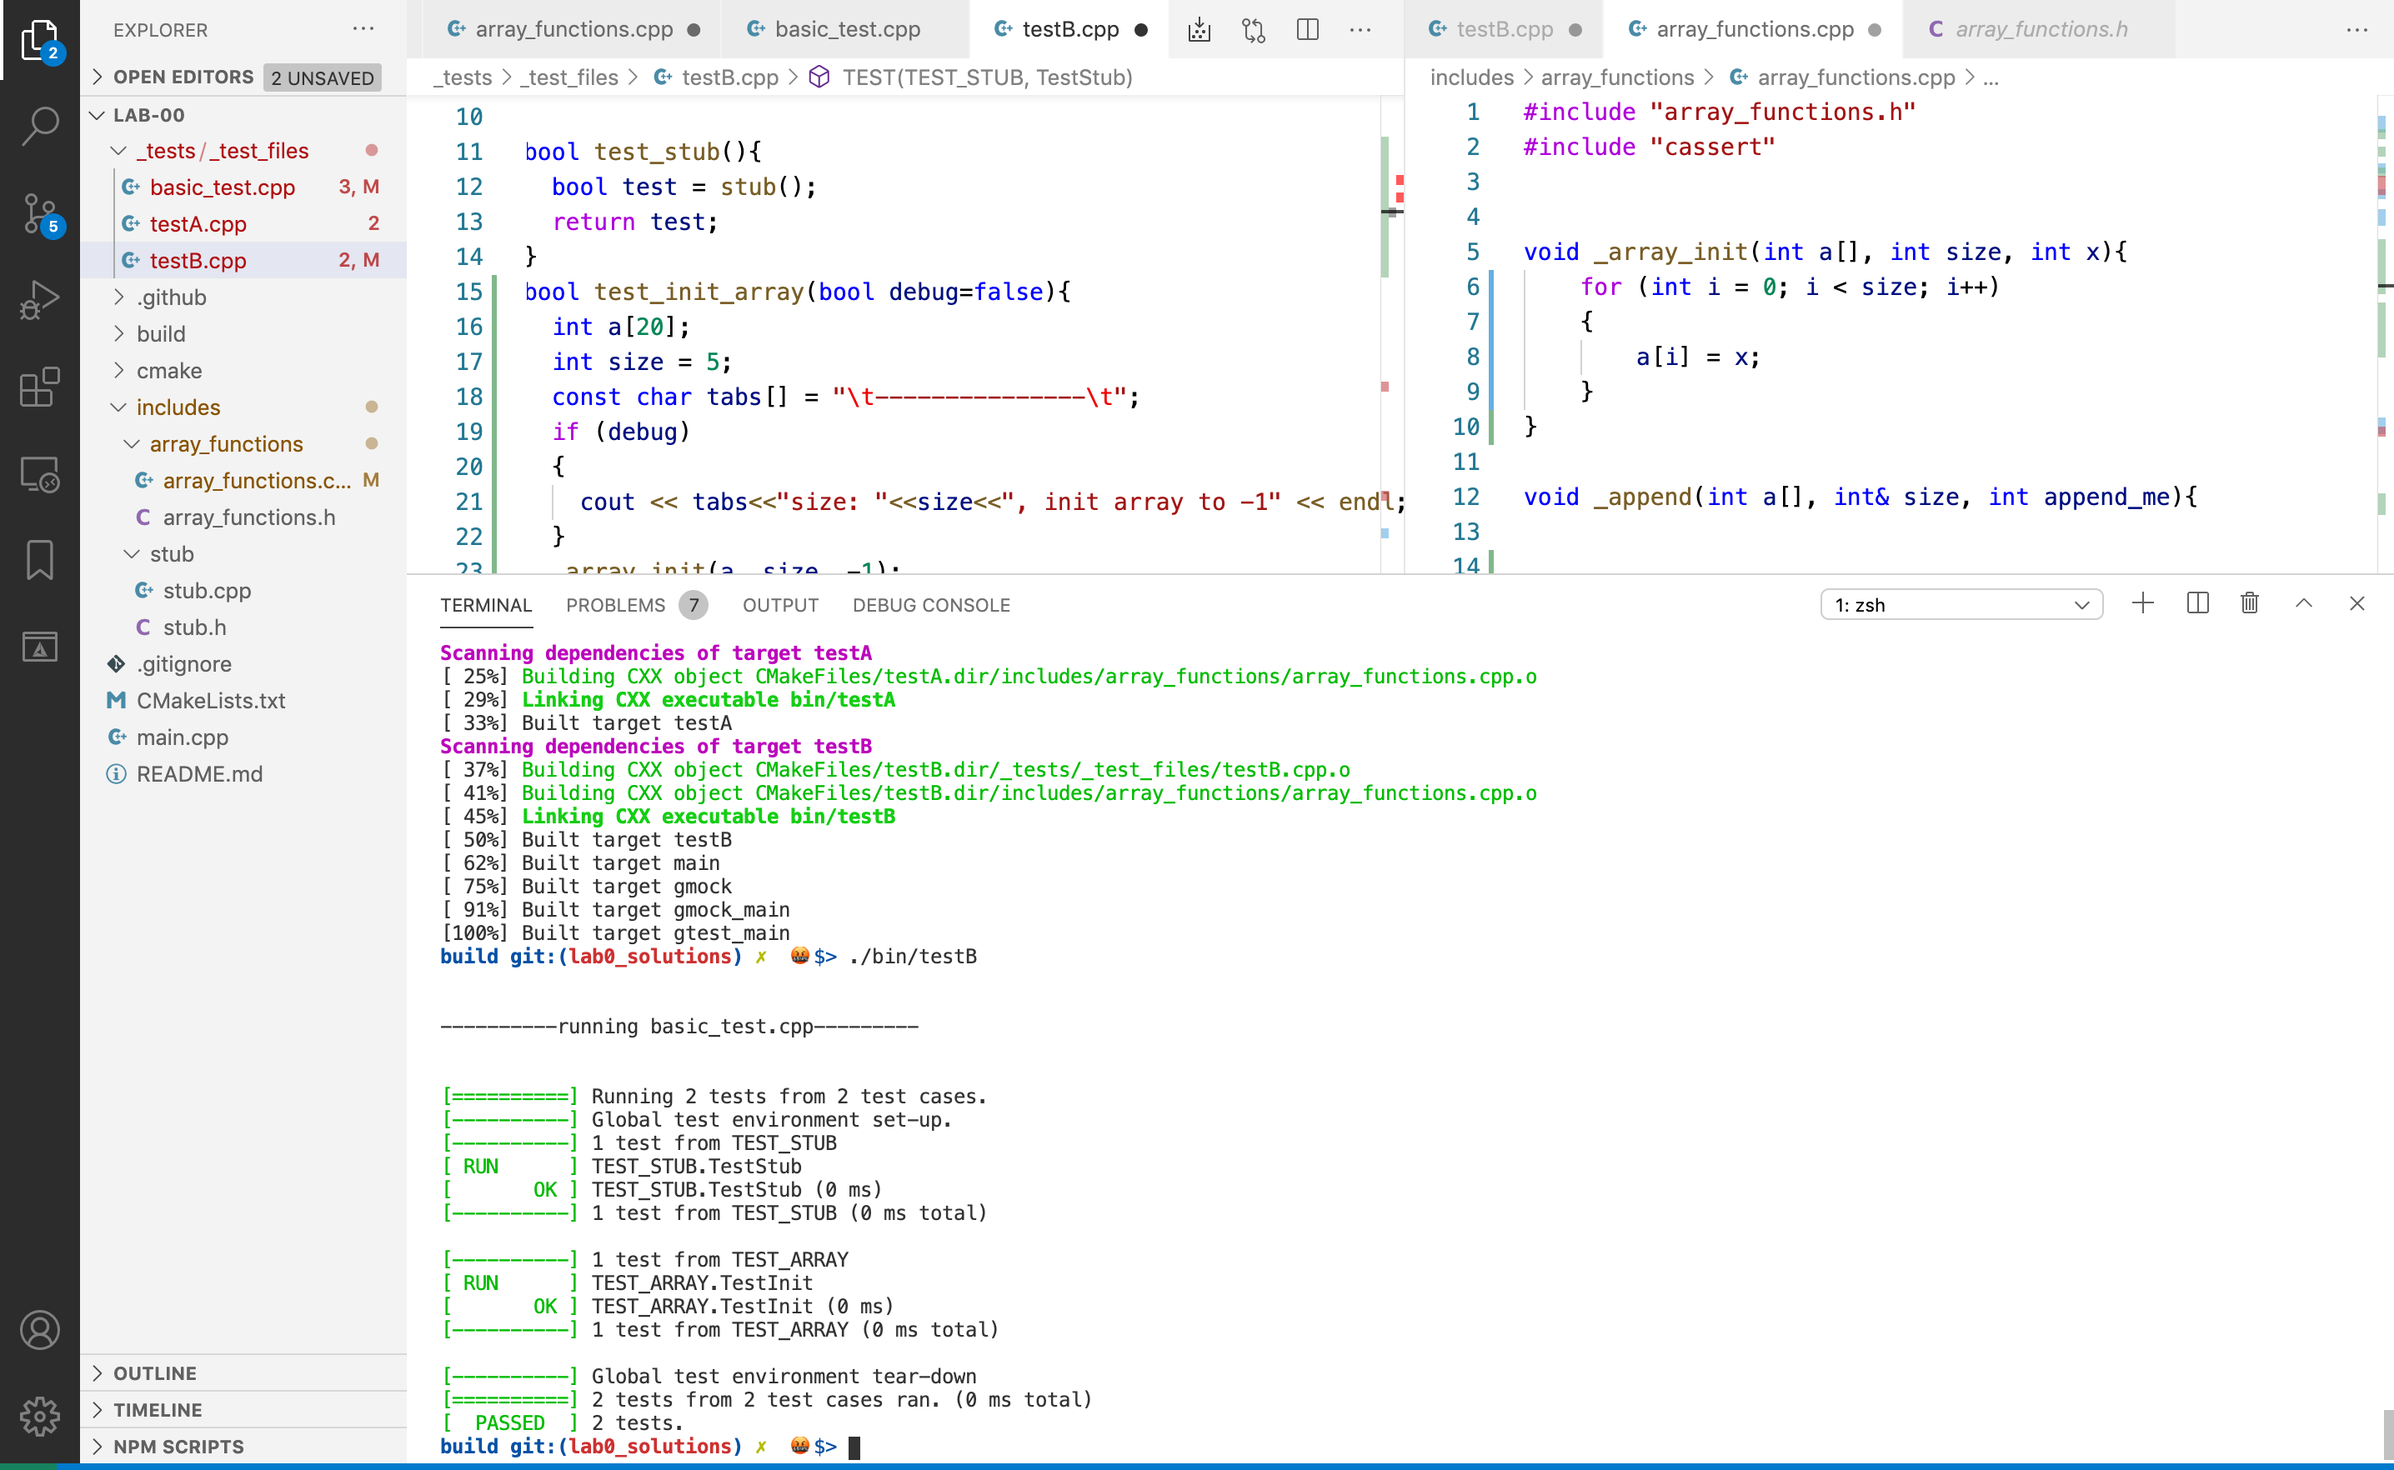
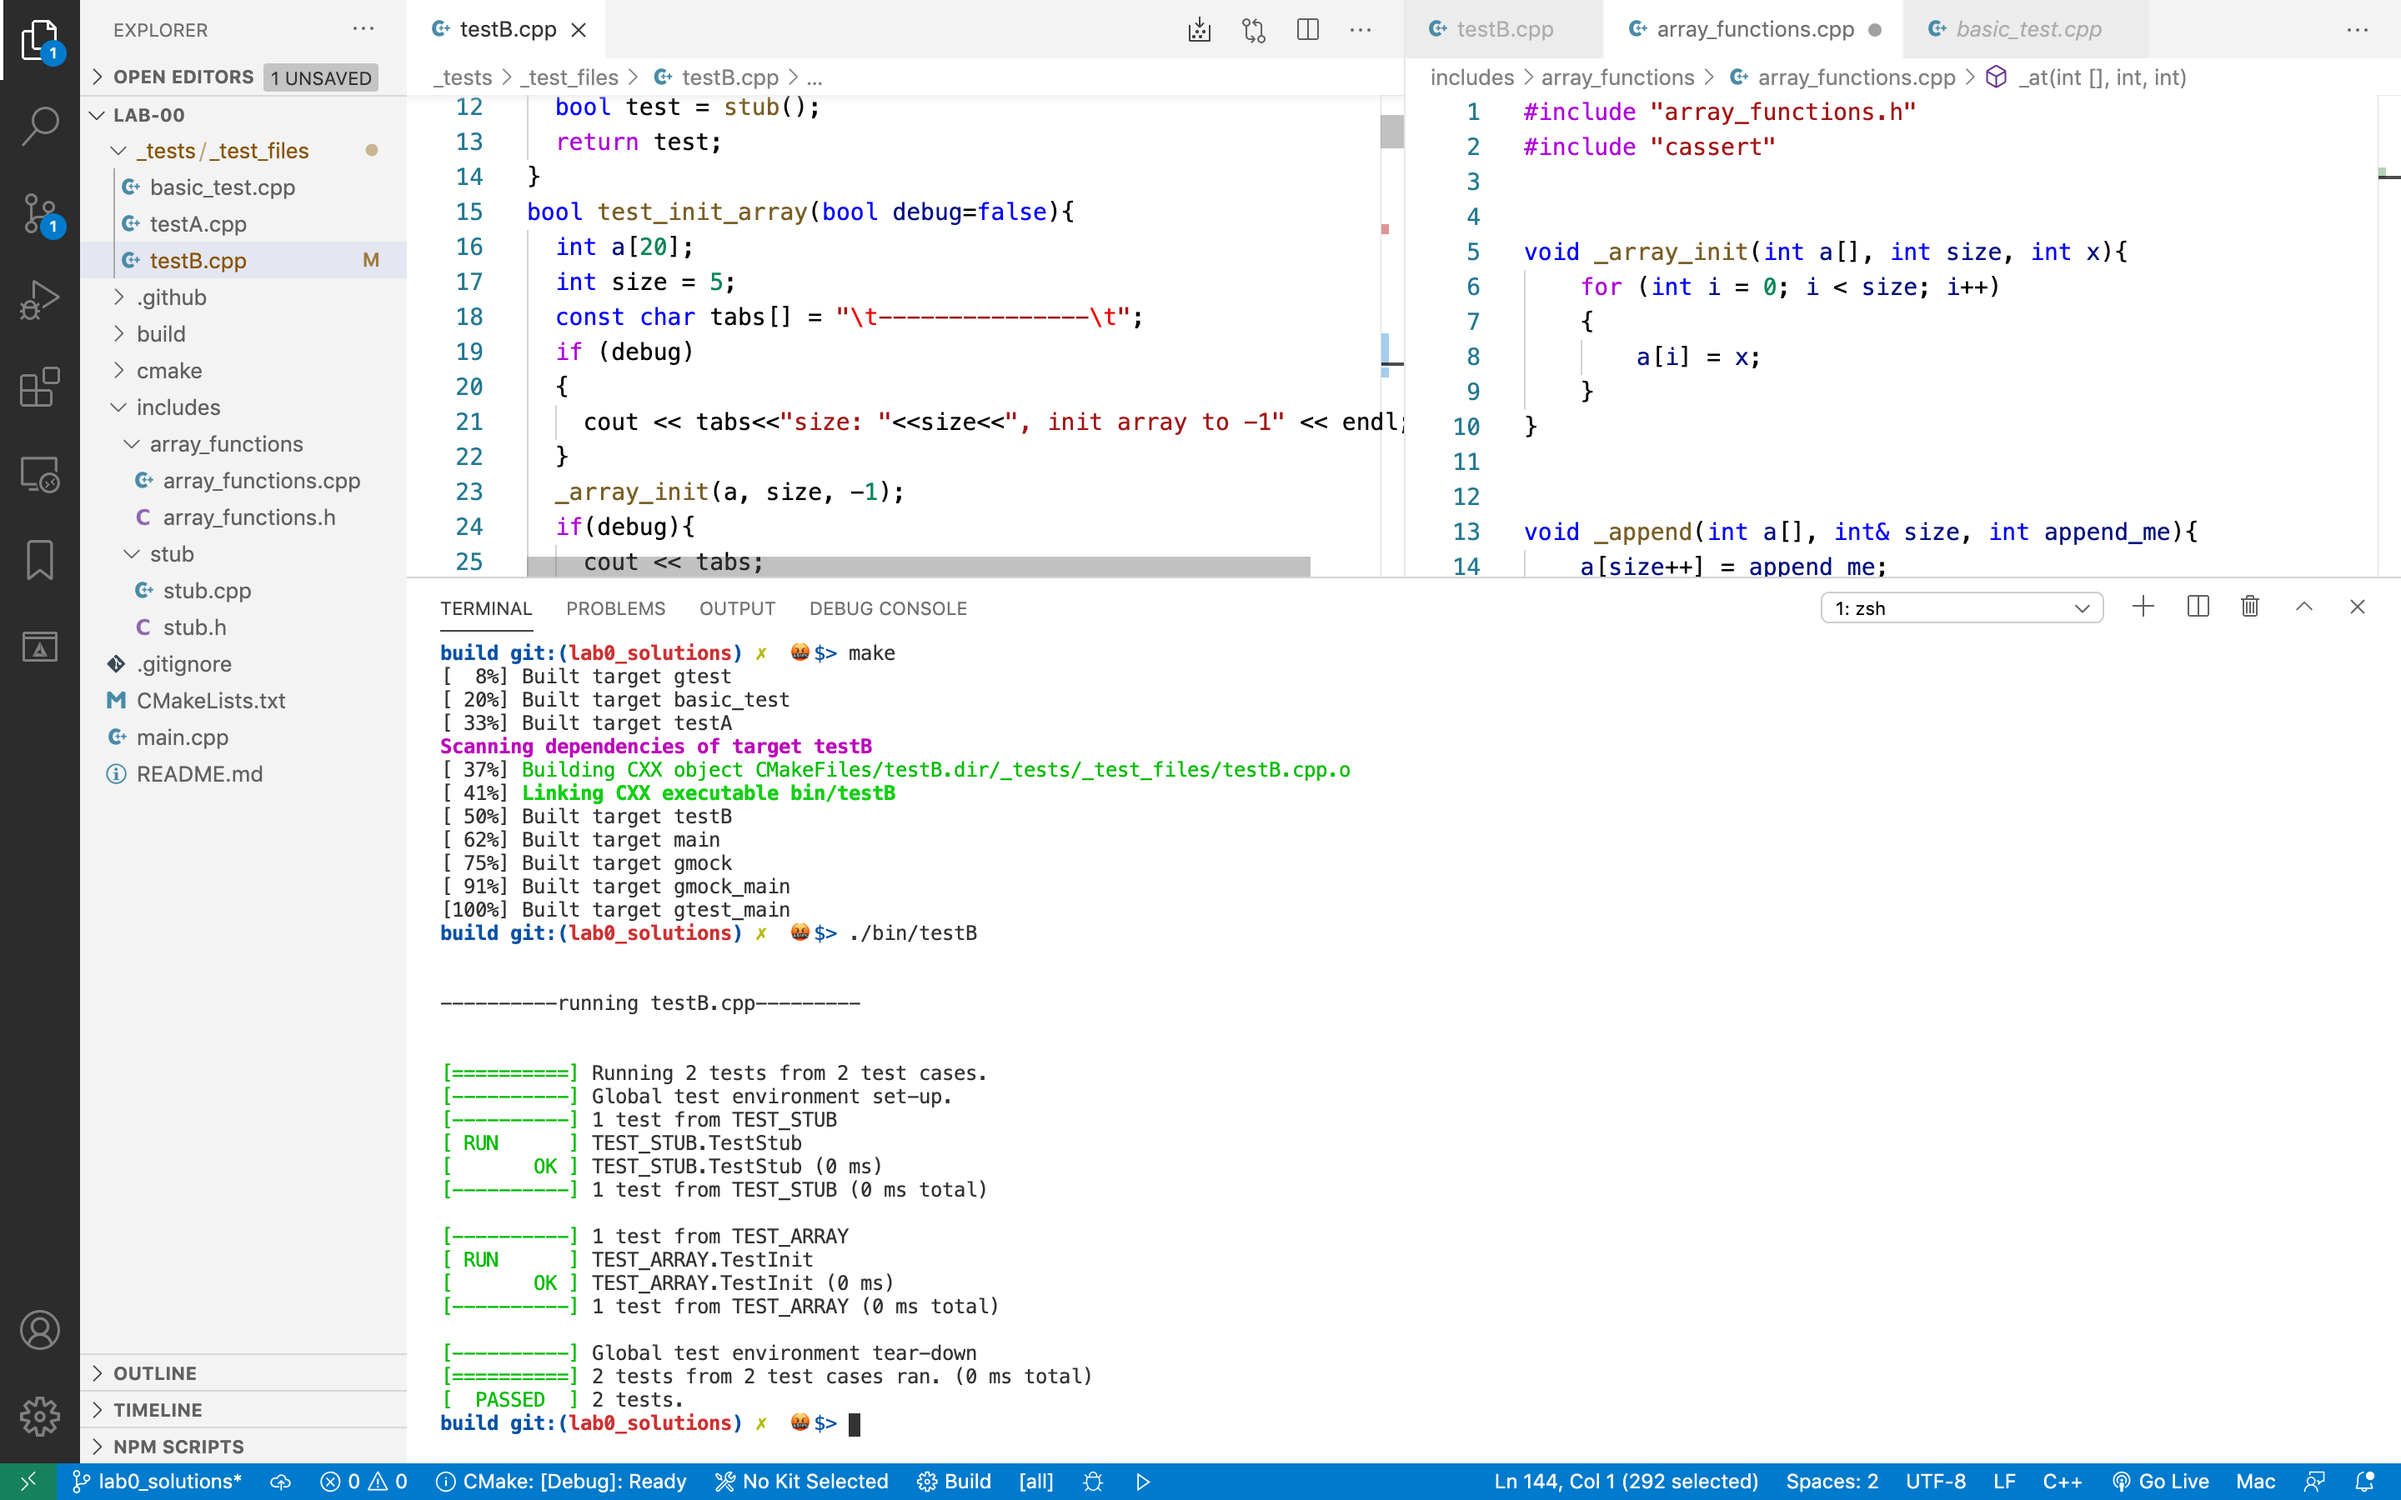
comments on screenshots up until the last commit. no push

diff --git a/README.md b/README.md
@@ -302,6 +302,10 @@ Function stubs are just function signatures with a return statement if needed.
 
 Function stubs are a quick way to get the project up and running. I find the students who adopt this method in their workflow have an easier time completing projects.
 
+### TIP:
+
+I normally copy the function signatures and paste them into the `.cpp` file. Then, I replace the `;` at the end of the line with braces (`{}`). Then, I add the returns whenever necessary.
+
 <img src="lab0_images/10-array_functions_cpp_stubs.png" alt="vscode_after_cloning" width="800"/>
 </br>
 
@@ -315,13 +319,13 @@ Using the terminal in this way is very convenient.
 <img src="lab0_images/11-open_terminal.png" alt="vscode_after_cloning" width="800"/>
 </br>
 
-## Go to build and run cmake:
+## Go to `build/` and run `cmake`:
 
-`cd` into the `build` folder, and from there, run `cmake ..`
+`cd` into the `build/` folder, and from there, run `cmake ..`
 
-This will run cmake on your _parent_ folder. cmake creates a bunch of files and you do not want these files in the root folde of your project. Running `cmake` from `build` will make sure all your auxilary files are created inside the `build` folder.
+This will run `cmake` on your _parent_ folder. (that's what `..` means. `cmake ..` means run `cmake` on my parent folder.)`cmake` creates a bunch of files and you do not want these files in the root folde of your project. Running `cmake` from `build/` will make sure all your auxilary files are created inside the `build/` folder.
 
-Hopefully, your `cmake` will run without any problems and it will tell you that "Build files are written to .../build"
+Hopefully, your `cmake` will run without any problems and it will tell you that "Build files are written to `. . . build/`"
 
 Now, we are ready to compile our project using `make`
 
@@ -446,8 +450,6 @@ Pay attention to the **naming conventions** for this course: The test suite will
 <img src="lab0_images/26.png" alt="vscode_after_cloning" width="800"/>
 </br>
 
-# IT should say `testB` not `basic_test` in the screenshot! $%#$%@
-
 ## `make` and RUN!!
 
 This time, we will run `make` successfully and then, we run the `testB` executable by typing `./bin/testB`
@@ -463,25 +465,49 @@ This means that our test function returned `true`.
 <img src="lab0_images/27-make_run_testB.png" alt="vscode_after_cloning" width="800"/>
 </br>
 
-## run `basic_test`:
+## Implement `_append` and `_at`:
 
-It is very important that you run the `baisc_test` very early on in your developement workflow to make sure your function signatures are what the grader expects.
+We have thus far implemented `_array_init` and `print_array`. Let's implement `_append` and `_at` as well.
 
-If you can't run `basic_test` successfully, then the grader will not be able to successfully run your project.
+You will _borrow_ my code for this particular lab, but make sure you comment the code very well.
 
-<img src="lab0_images/28-0-make_run_testB.png" alt="vscode_after_cloning" width="800"/>
-</br>
-<img src="lab0_images/28-1-PASSED-test_init.png" alt="vscode_after_cloning" width="800"/>
-</br>
+Once we have implemented `_append`, write the test for it in `testB.cpp`. Don't forget to add a `TEST( )` for the `test_append()` function.
+
 <img src="lab0_images/29_0_test_append.png" alt="vscode_after_cloning" width="800"/>
 </br>
+
+Obviously, this is done in the `testB.cpp` file. Again, do not forget to add the `TEST( )` function for `test_at()`
+
+Once again, you will _borrow_ my code for this particular lab, but make sure you comment the code very well.
+
 <img src="lab0_images/29_1_test_at.png" alt="vscode_after_cloning" width="800"/>
 </br>
+
+## `make` and run `testB.cpp` again:
+
+Let's `make` and run `testB` to make sure our `test_append` and `test_at` pass:
+
 <img src="lab0_images/30-PASSED_three_tests.png" alt="vscode_after_cloning" width="800"/>
 </br>
+
+## Implement the `_find()` function on your own
+
+You will also write a `test_find()` function. Once you have implemented `_find()` and written the test function for it (don't forget to comment) you are ready to `make` and run `testB` once again.
+
 <img src="lab0_images/31-PASSED-basic_test.png" alt="vscode_after_cloning" width="800"/>
 </br>
+## Finally, we can run `basic_test.cpp`:
+Now that we have implemented all the functions that are used in `basic_test.cpp`, we can `make` and run this file.
+
+I cannot overemphasize how important it is for this test to be able to compile and run **without** your editing it in any way. If your project cannot compile and run `basic_test`, the grader will not be able to run your project.
+
 <img src="lab0_images/32-add_commit.png" alt="vscode_after_cloning" width="800"/>
 </br>
+
+## `git add` and `git commit`
+
+we go back to the root directory by typing `cd ..` - remember that `..` means parent directory. `cd ..` means change directory to the parent.
+
+My commit message will let me know what stage of the development I am in. I have just PASSED both the `basic_test` and `testB`
 <img src="lab0_images/33.png" alt="vscode_after_cloning" width="800"/>
 </br>
